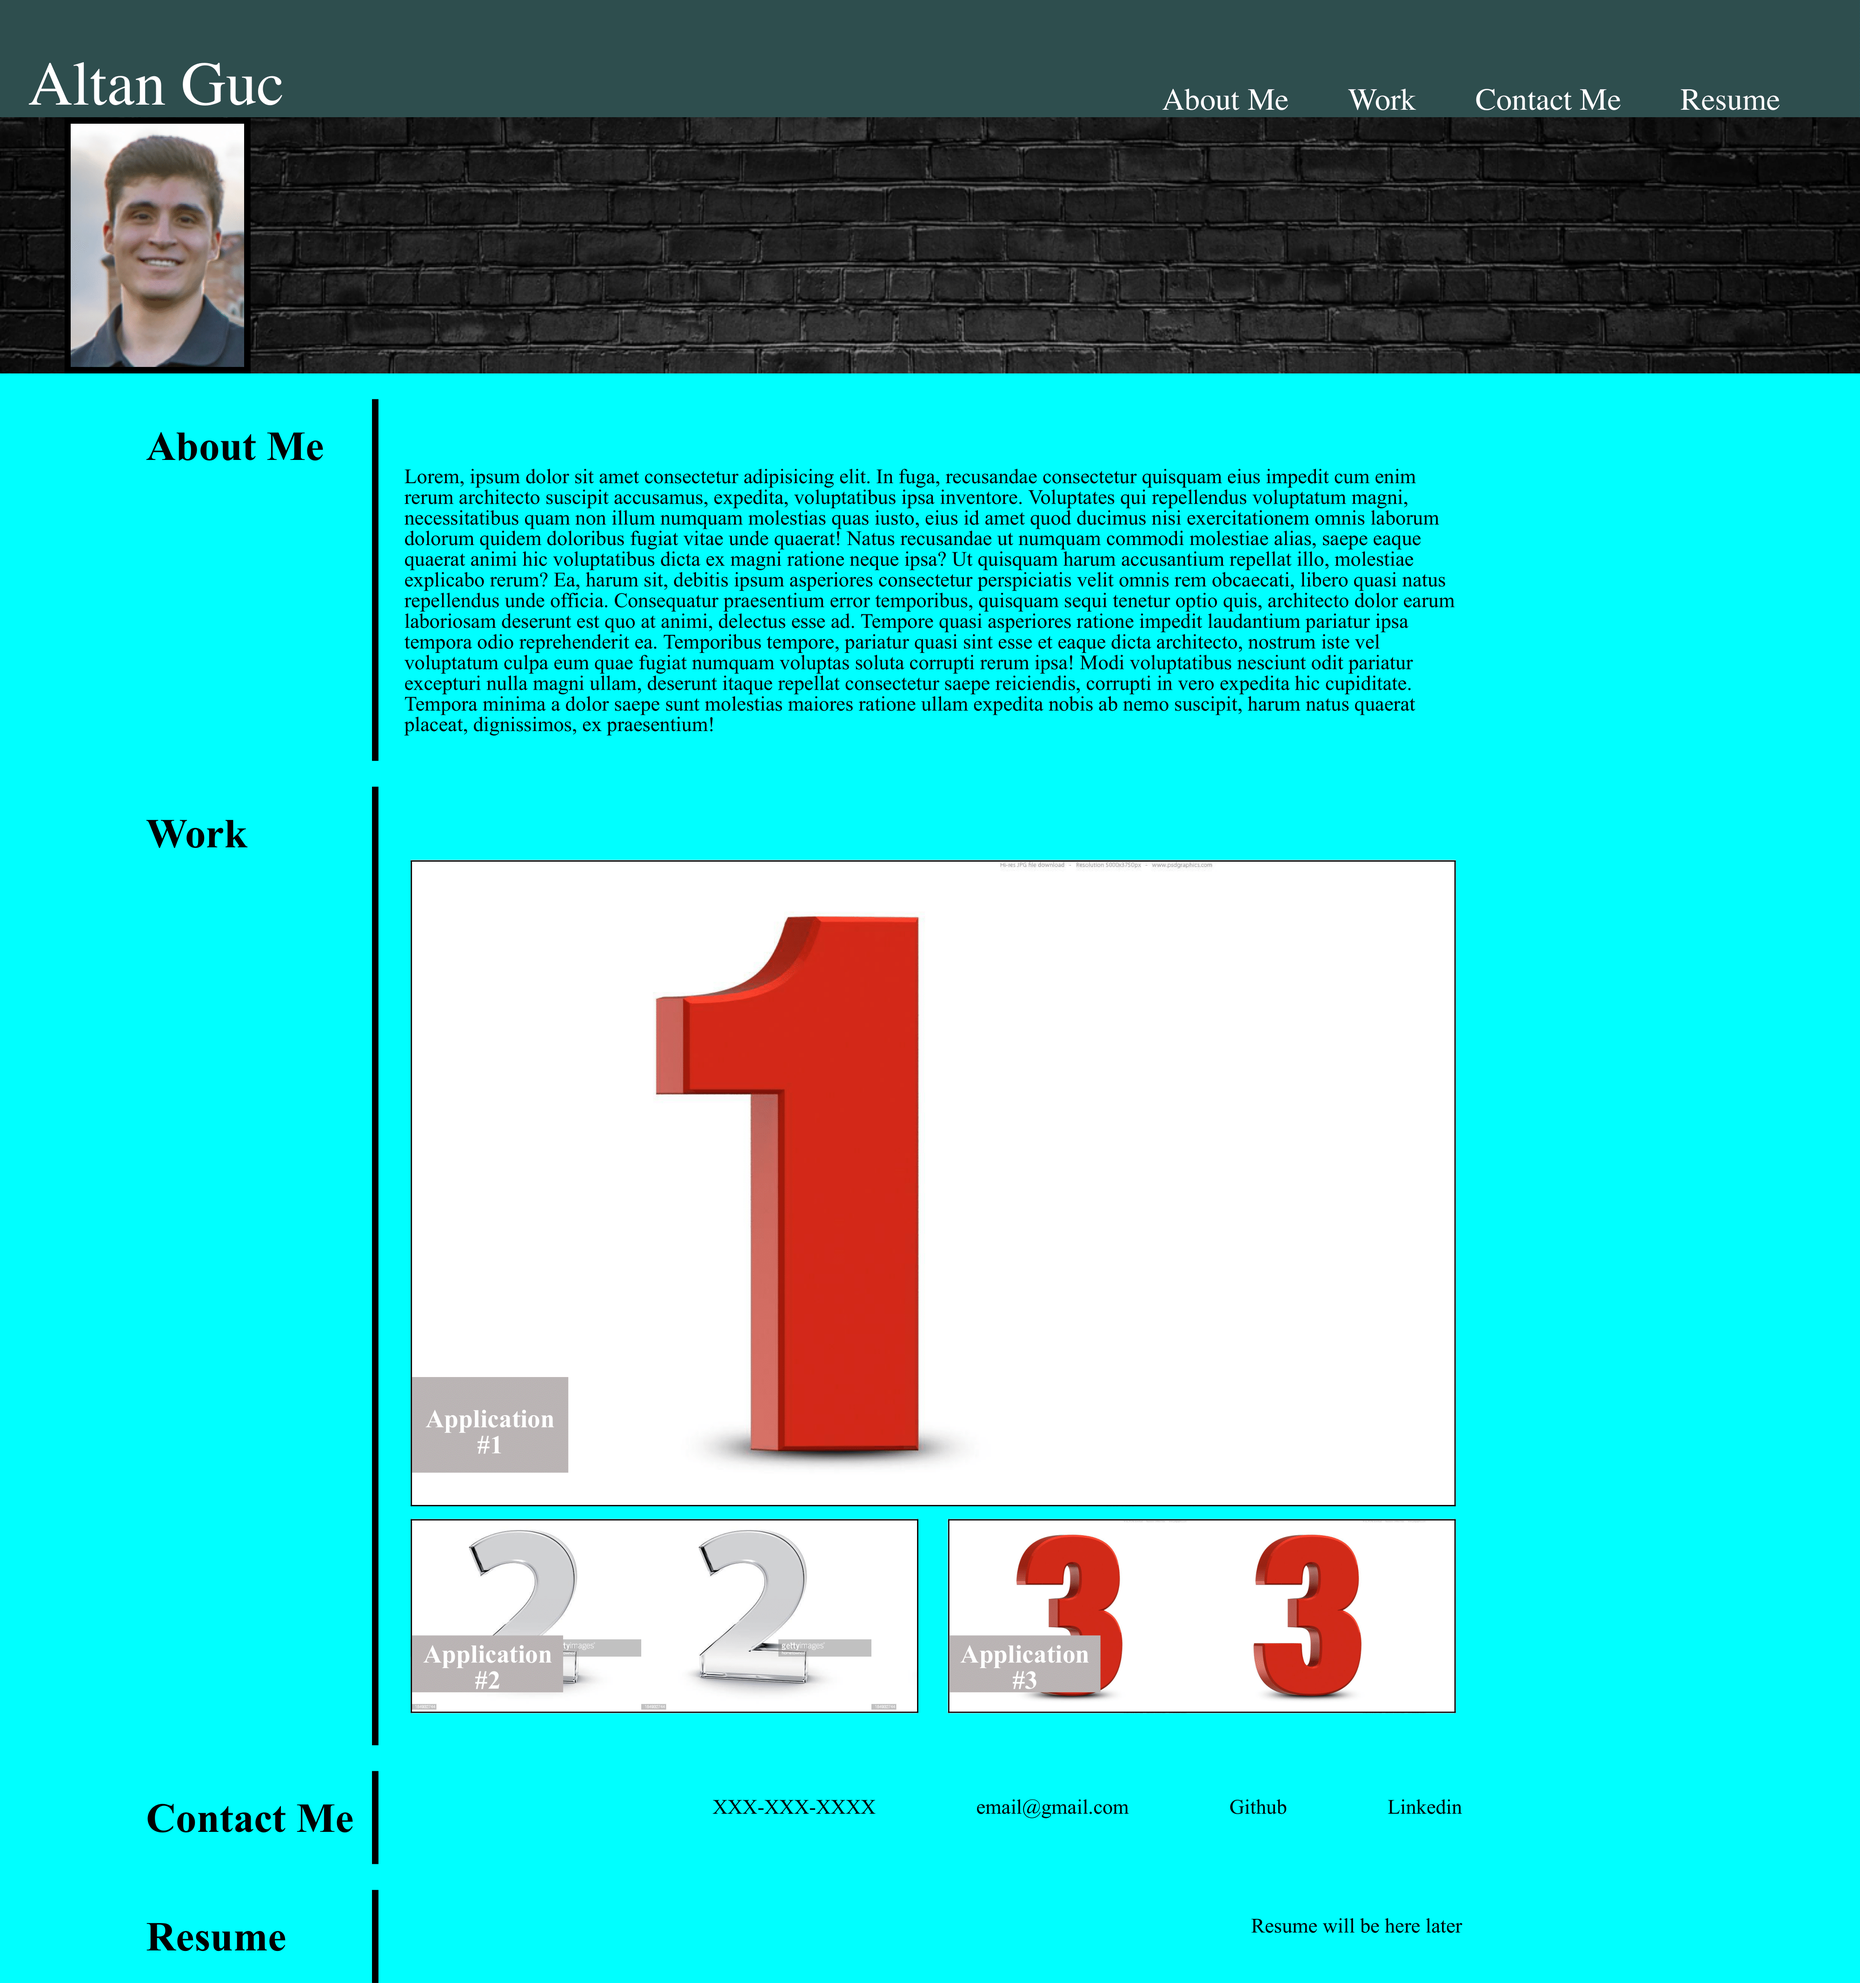
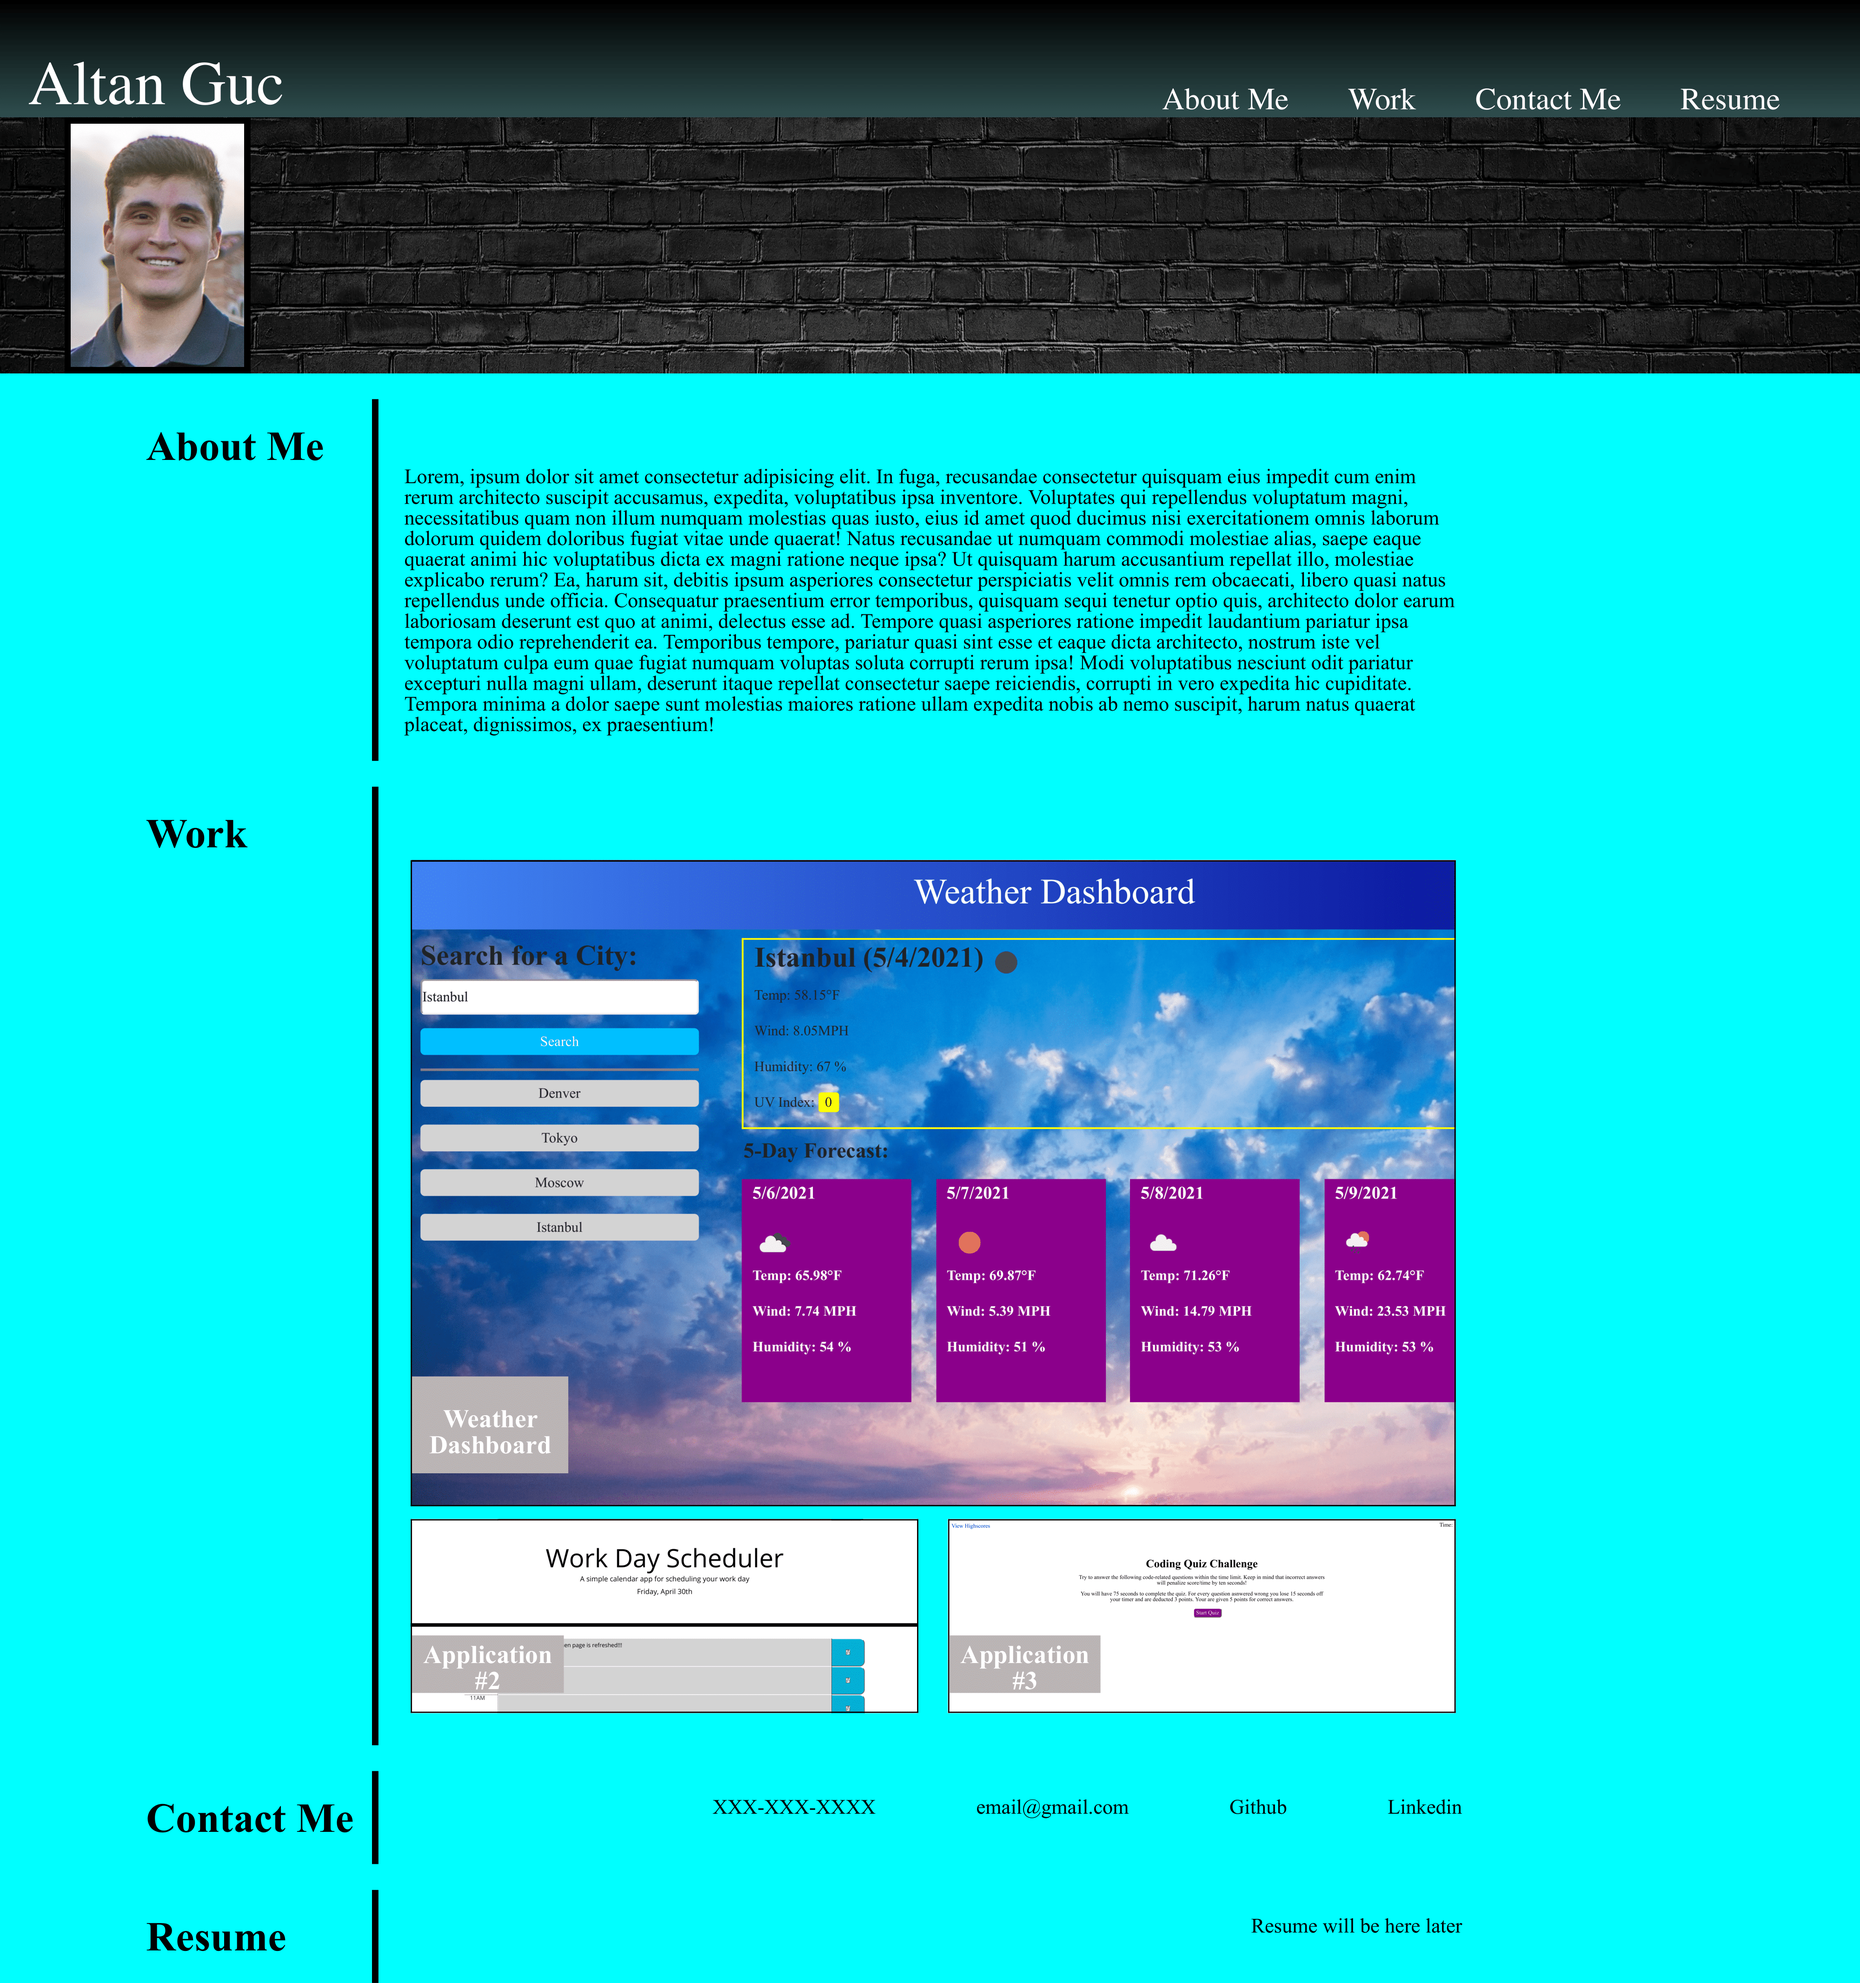
updating portfolio applications

diff --git a/index.html b/index.html
@@ -45,26 +45,26 @@
         <section id="work" class="section">
             <h2>Work</h2>
 
-            <a href="#application1" class=application1>
+            <a href="https://github.com/AltanKG/Weather_Dashboard" target="_blank" class=application1>
                 <div class="app_desc1">
-                    <p>Application #1</p>
+                    <p>Weather Dashboard</p>
                 </div>
             </a>
 
-            <a href="#application2" class=application2>
+            <a href="https://github.com/AltanKG/Work_Day_Scheduler" target="_blank" class=application2>
                 <div class="app_desc">
                     <p>Application #2</p>
                 </div>
             </a>
 
-            <a href="#application3" class=application3>
+            <a href="https://github.com/AltanKG/Code_Quiz" target="_blank" class=application3>
                 <div class="app_desc">
                     <p>Application #3</p>
                 </div>
             </a>
         </section>
 
-        <section id="contact-me" class="section">
+        <aside id="contact-me" class="section">
             <h2>Contact Me</h2>
             
                 <p>XXX-XXX-XXXX</p>
@@ -72,12 +72,12 @@
                 <p>Github</p>
                 <p>Linkedin</p>
             
-        </section>
+        </aside>
 
-        <section id="resume" class="section">
+        <aside id="resume" class="section">
             <h2>Resume</h2>
             <p>Resume will be here later</p>
-        </section>
+        </aside>
     </main>
     
     

diff --git a/assets/css/style.css b/assets/css/style.css
@@ -14,7 +14,7 @@ body {
 /* Declares header design  */
 .header {
   padding: 1.5%;
-  background-color: #2f4f4f;
+  background-image: linear-gradient(black, #2f4f4f);
   color: white;
 }
 
@@ -128,8 +128,8 @@ h2 {
   height: 500px;
   border: solid black 1px;
   margin: 5px;
-  background-image: url("../images/app1.jpg");
-  background-size: contain;
+  background-image: url("../images/Weather_Dashboard-1.png");
+  background-size: cover;
 }
 
 .application2 {
@@ -137,8 +137,8 @@ h2 {
   height: 150px;
   border: solid black 1px;
   margin: 5px;
-  background-image: url("../images/app2.jpg");
-  background-size: contain;
+  background-image: url("../images/Work_Day_Scheduler-1.png");
+  background-size: cover;
 }
 
 .application3 {
@@ -146,8 +146,8 @@ h2 {
   height: 150px;
   border: solid black 1px;
   margin: 5px;
-  background-image: url("../images/app3.jpg");
-  background-size: contain;
+  background-image: url("../images/Code_Quiz-1.png");
+  background-size: cover;
 }
 
 /* Gives a highlight to the section when hovered over  */
